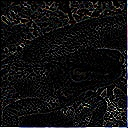
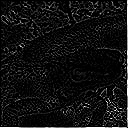
q17修正

diff --git a/source/q17.py b/source/q17.py
@@ -5,7 +5,7 @@ import q9
 
 
 def _main():  # pragma: no cover
-    img = cv2.imread(r"img/imori.jpg")
+    img = cv2.imread(r"img/imori.jpg", 0)
 
     laplacian_kernel = np.array([
         [0, 1, 0],
